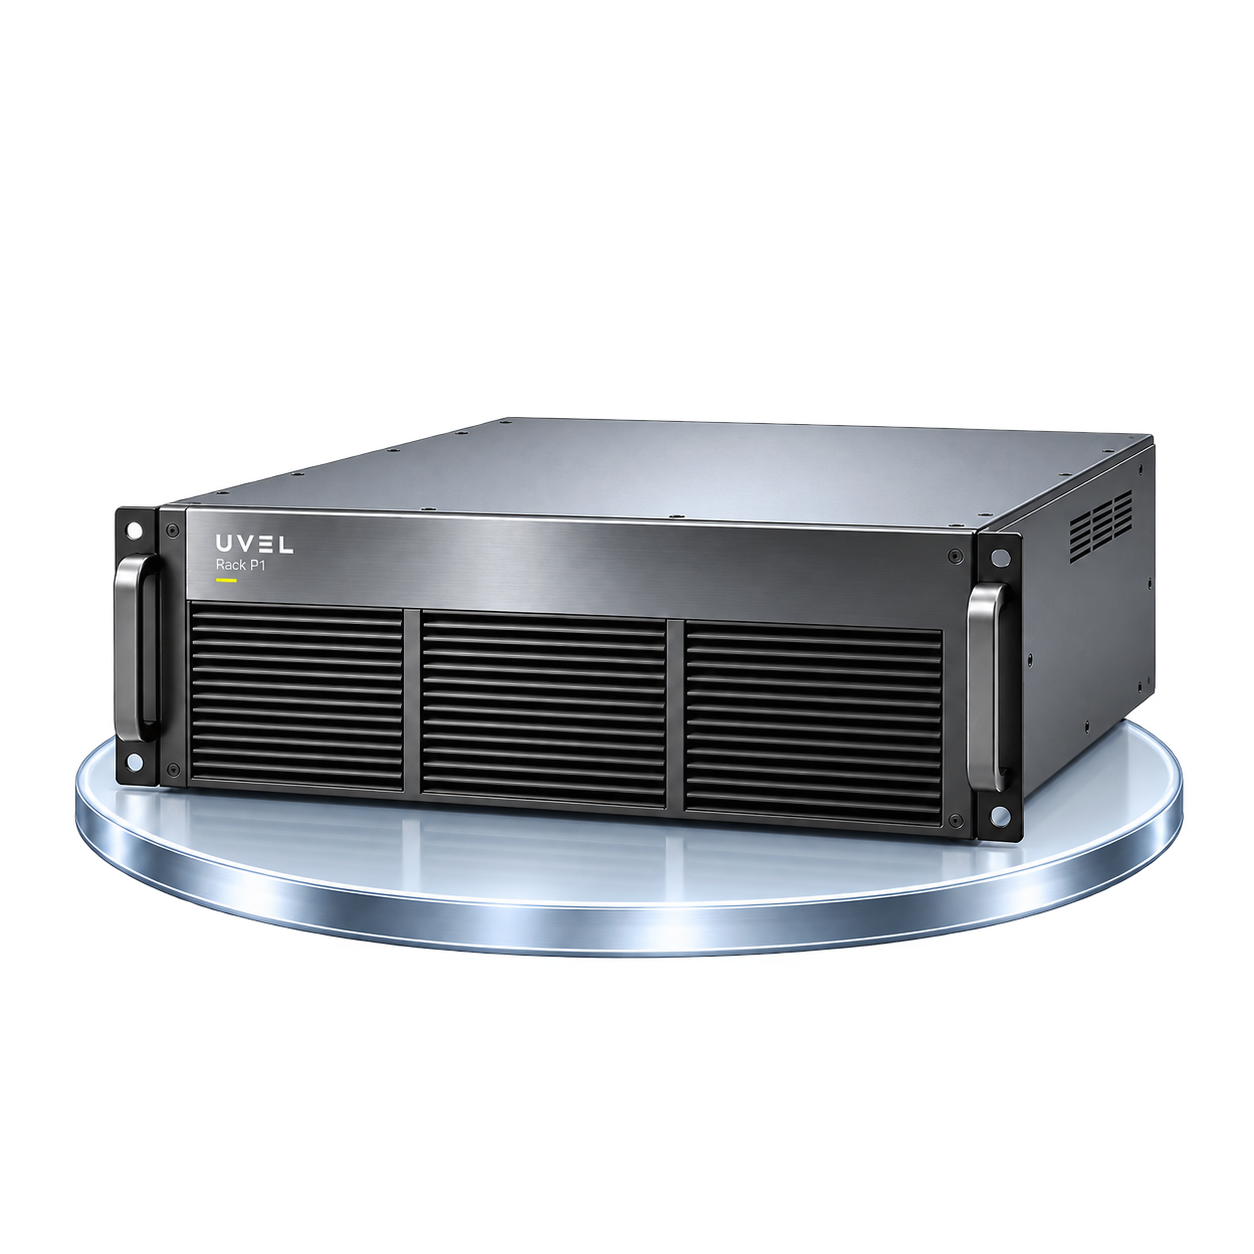
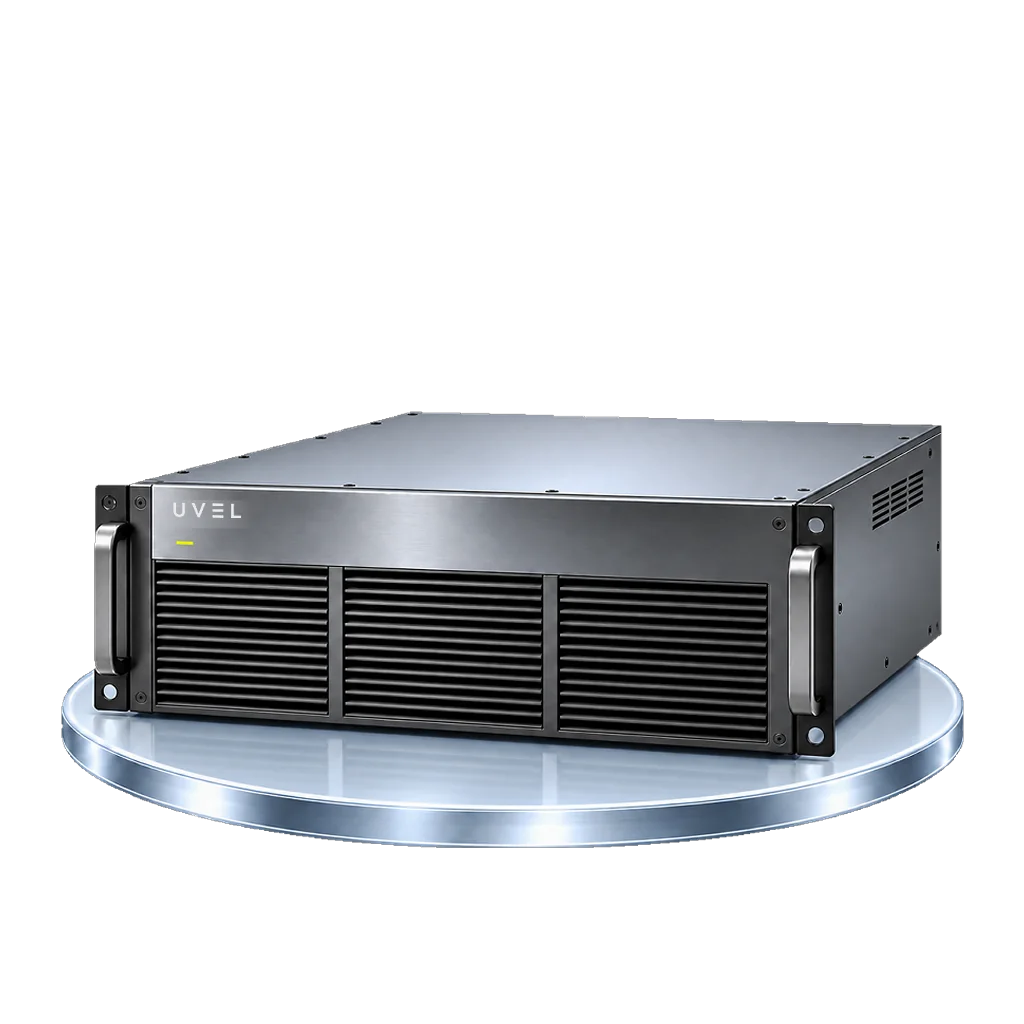
Switch the store device art to the shared-pedestal tiered set
- Six 1024px transparent WebP renders in src/static/img/products/uvel-pedestal/:
  same pedestal and camera, body size stepping up S1 < Pro < Pro v2 < P1 < P2,
  Cloud Share as a single compute module (replaces Pro v2 / P1 / P2, adds
  S1 / Pro / Cloud Share).
- Prototype and design-review fixtures use this set for every product.
- The old home-glass-20260928 s1/pro/cloud webp stay: still referenced by the
  preview server support attachment and a promotion behaviour test.
- PRD §7.1 card art rule and §7.2 wording; P-66 changelog entry extended.

diff --git a/docs/前端产品更新日志.md b/docs/前端产品更新日志.md
@@ -3,7 +3,8 @@
 - 商品详情页 Hero 卡「累计已售 / 本周剩余」下方新增一行安静提示：「[三节点图标] 每台为团队增加 12,990 算力点」（Cloud Share 为「每份为团队增加 … 算力点」；英文 `Each unit/share adds {n} compute pts to your team`，越南语 `Mỗi máy/phần cộng {n} điểm tính toán cho nhóm`）。数字按语言千分位（越南语用「.」），统计数字字体；其余为 12px 弱化正文色，无分隔线、无强调色、不可点击。只在商品详情显示，商品卡与结算页不显示；不受「隐藏数据」眼睛遮盖（商品信息，非个人数据）。越南语 320px 窄屏折成两行，不溢出。
 - 数据来自商城目录 `GET /api/store/catalog` 新增的可选字段 `computePoints`（单件计入团队的算力点，与后端 `nx_product.compute_points` 同值，非负整数）；缺失、null 或 0 时整行隐藏，类型错误按目录契约违规处理。依赖后端待办 B24（uvel-docs 任务 20），后端下发前真实环境不显示此行。本地预览目录按价格 ×10 下发演示值（S1 12,990 / Pro 49,990 / Pro v2 59,990 / Rack P1 129,990 / Rack P2 199,990 / Cloud Share 199）。
 - 商城「算力阶梯」由手机 + 3 档硬件扩为手机 + 全部 5 档硬件，自下而上：手机、Box S1、Box Pro、Box Pro v2、Rack P1、Rack P2，标题显示「6 档」。各档读目录对应 SKU 的 `dailyEarn`，缺失时该行显示「—」；进度条透明度自下而上 0.25 → 0.75 逐档递增，两档 Rack 的 $/天 用品牌色；「←你」标记规则不变，不再为已拥有的 Pro v2 / Rack P2 额外插入一行。新增文案 `ladderProV2`「Box Pro v2」、`ladderRackP2`「Rack P2」（三语同英文）。顶部倍数 Hero 与「手机 vs Box S1」对比卡不变。
-- 相关提交：本提交。PRD 主文档 §7.1（算力阶梯）、§7.2（同时按现行页面更正「页面自上而下」列表与 Cloud Share variant 的旧描述）。
+- 商城设备图换成新套图：同一透明圆盘底座、同一机位，机身体积按档位递进（Box S1 < Box Pro < Box Pro v2 < Rack P1 < Rack P2），Cloud Share 改为单个算力模块。6 张 1024px 透明 WebP 放在 `src/static/img/products/uvel-pedestal/<SKU>.webp`（替换原有 Pro v2、Rack P1、Rack P2 三张，新增 S1、Pro、Cloud Share 三张）；本地预览与设计审查夹具的 6 个商品都改用这一套。App 只显示目录下发的 `imageUrl`，正式环境商品图由运营在 PC 后台上传，需换成这一套。
+- 相关提交：首批提交 1ac285b6，设备图为第二批提交。PRD 主文档 §7.1（算力阶梯；商品卡主图套图规则，同时更正旧的「datacenter 风 4U 服务器」描述）、§7.2（同时按现行页面更正「页面自上而下」列表与 Cloud Share variant 的旧描述）。
 
 ## 2026-11-03：外部付款明细的商品金额按两位显示
 

diff --git a/PRD/NexGrid_产品功能架构设计文档_v3.7.md b/PRD/NexGrid_产品功能架构设计文档_v3.7.md
@@ -1413,7 +1413,7 @@ flowchart TD
 > **商品卡不展示回本天数 / 年化 / 首年净利**——避免在卡片层引导用户自行算年化(数字可信不自曝,§13.1)。回本 / 年化 / 首年净利等 ROI 派生值仅在商品详情页(§7.2)与结账页展示。
 
 **卡片元素**:
-- 产品渲染图(datacenter 风,4U 服务器内部 4 张 NVIDIA-style 显卡可见)+ Best Seller / Trending badge + 库存告警(<50 时显示 `NN LEFT`)
+- 商品主图(目录 `imageUrl`)+ Best Seller / Trending badge + 库存告警(<50 时显示 `NN LEFT`)。主图套图(2026-11-03 P-66)统一为同一透明圆盘底座、同一机位,机身体积按档位递进:Box S1 < Box Pro < Box Pro v2 < Rack P1 < Rack P2;Cloud Share 为单个算力模块。
 - 标题 + 副标 + GPU · VRAM 规格小行
 - 上述 4 行 ROI hero metric
 - 评分行(⭐ X.X · N reviews · N sold)
@@ -1439,7 +1439,7 @@ flowchart TD
    - **团队算力点(2026-11-03 P-66)**:销售数据正下方一行安静提示「[三节点图标] 每台为团队增加 12,990 算力点」(Cloud Share 为「每份…」;英文 `Each unit/share adds {n} compute pts to your team`,越南语 `Mỗi máy/phần cộng {n} điểm tính toán cho nhóm`)。数值读目录 `computePoints`(单件计入团队的算力点,与后端 `nx_product.compute_points` 同值),按语言千分位(越南语用「.」),数字用统计数字字体、ink-2 色,其余 12px 正文 ink-3 色;无分隔线、无强调色、不可点击。仅商品详情显示,商品卡和结算页不显示;`computePoints` 缺失、null 或为 0 时整行隐藏;不受「隐藏数据」眼睛遮盖(商品信息,非个人数据);窄屏可折成两行,不得溢出。目录下发该字段前(后端待办 B24)此行不显示。
 2. **活动 / 代金券提示**:从活动或代金券入口进入时,在 Hero 下方显示活动状态或代金券条款。
 3. **Cloud Share 收益卡**(仅 Cloud Share):见下方 Cloud Share variant。
-4. **vs-phone strip**(仅硬件,用户有已激活手机时):`你的手机 $X/天 ↔ $Y/天` + chip `预估 NNN×`,倍数 = 本商品日产 / 该手机日产,向下取 1 位小数;没有已激活手机时整条不显示(本地 mock 用典型 T3 档)。
+4. **vs-phone strip**(仅硬件,用户有已激活手机时):`你的手机 $X/天 ↔ $Y/天` + chip `预估 NNN×`,倍数 = 本商品日产 / 该手机日产,向下取 1 位小数;没有已激活手机时整条不显示。
 5. **预估收益**(仅硬件,非活动入口):「预估每日收益」「预估每月」两格,来自当前目录日产;不显示回本天数、年化或首年净利。
 6. **硬件规格** / **AI 性能**:见本节开头「硬件规格、AI 性能与相关资料」。
 7. **信任资料**:合作方与本商品相关资料。
